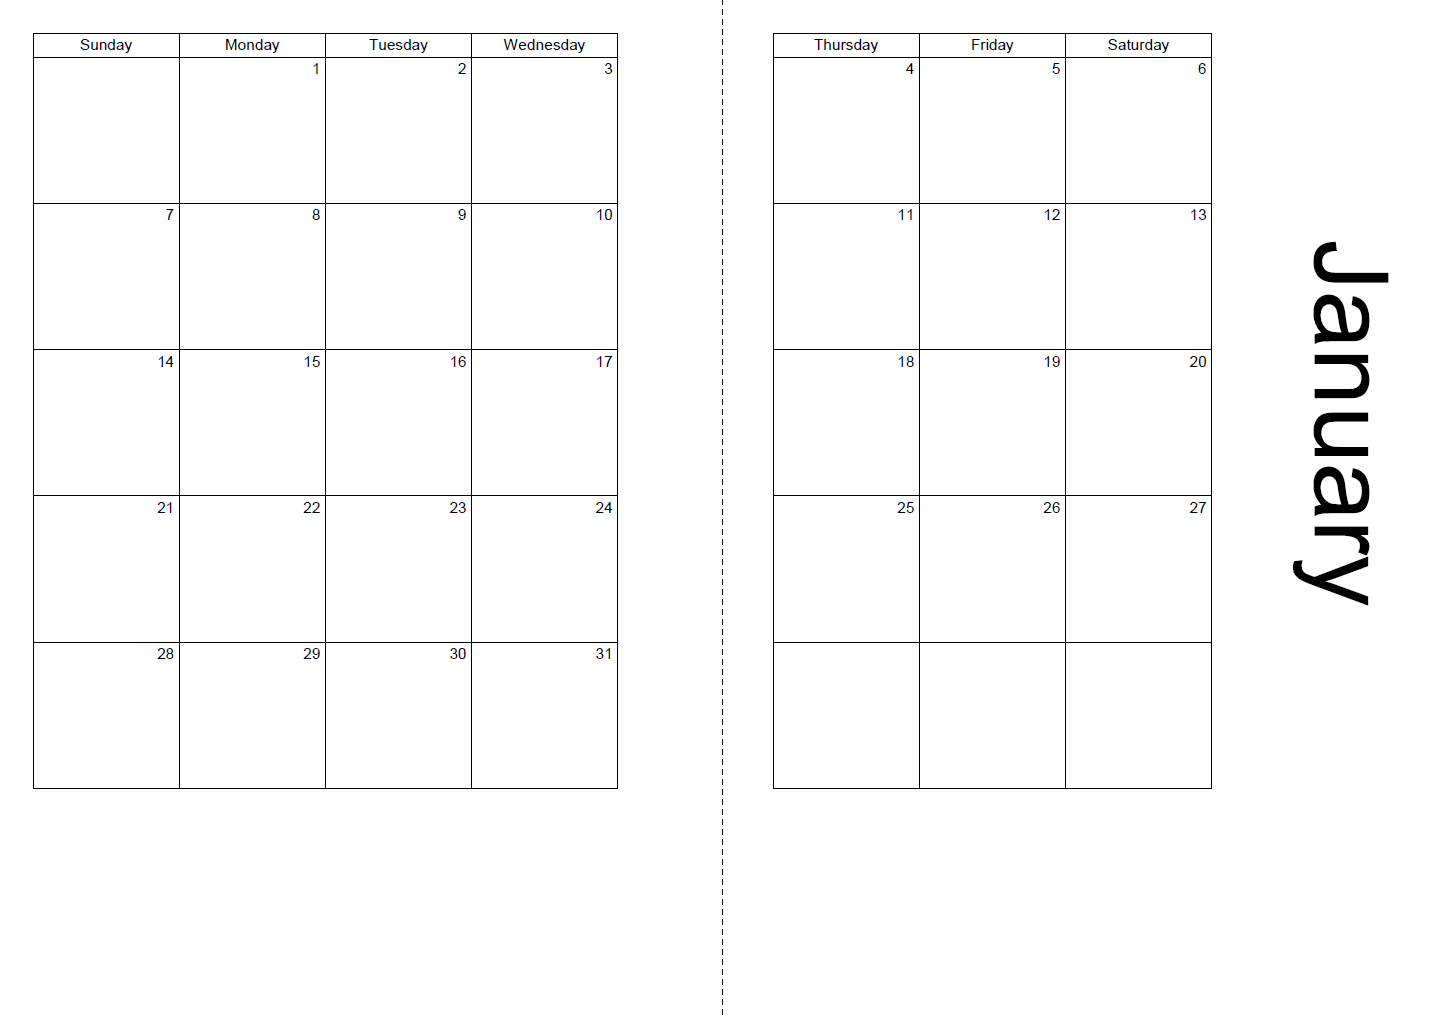
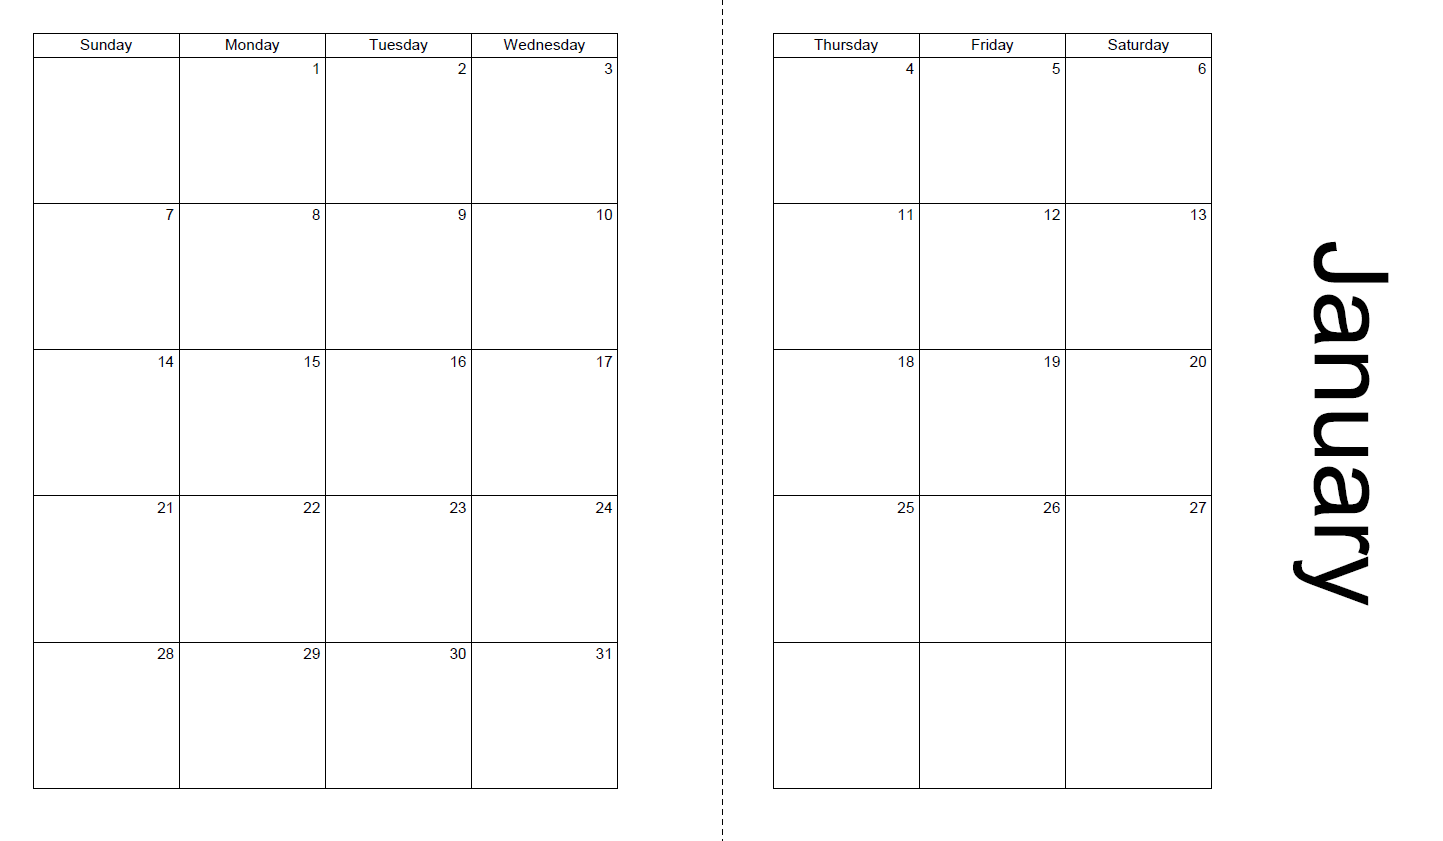
resize planner image and add top padding

diff --git a/templates/projects.html b/templates/projects.html
@@ -12,7 +12,7 @@
             <p>It was found that a large majority of species had the conservation status of Species of Concern. The three largest affected categories were birds, vascular plants, and mammals. Analysis of the conservation status by genus found that the genus Myotis had the most separate species represented with conservation statuses. The genus Myotis refers to the bat, so it can be concluded that national parks are maintaining environments in which bat populations may be able to recover. Overall, national parks are safe havens for at-risk species, and expanding the ecosystems that we see in these parks could help to give these species a better chance at survival.</p>
         </div>
         <div style="padding-right: 20px; height: 525px; background-color:#383F39; color: #E4E6E5;">
-            <img src="../static/img/planner_example.png" style="float: left; margin: 20px; width: 35%">
+            <img src="../static/img/planner_example.png" style="float: left; margin: 20px; width: 35%; padding-top: 30px">
             <h2 style="padding-top: 25px; text-align: center;">Planner Page Generator</h2>
             <hr style="width: 50%; border-color:#E4E6E5;" align="right"/>
             <p>Over the years, I'd grown tired of trying to find a personal planner that met all of my requirements. It seemed as though I'd be able to find one that truly worked for me 1 in every 5 years, but I'd never be able to find the same layout for the next year, and I always felt conflicted about having to throw out my previous year. I tried using digital planners, but truthfully, a pen and paper makes it easier for me to remember my schedule and deadlines.</p>
@@ -20,7 +20,7 @@
             <p>Now, I'm revisiting this project to add more customizability and a GUI to enable me to tweak my layouts whenever I please as my needs change. Follow along with me as I further refine this application to work for a wide audience.</p>
         </div>
         <div style="padding-left: 20px; height: 525px; background-color:#383F39; color: #E4E6E5;">
-            <img src="../static/img/railway.png" style="float: right; margin: 20px; width: 40%">
+            <img src="../static/img/railway.png" style="float: right; margin: 20px; width: 40%; padding-top: 50px;">
             <h2 style="padding-top: 25px; text-align: center;">This Website!</h2>
             <hr style="width: 50%; border-color:#E4E6E5;" align="left"/>
             <p>I created this website using the Flask framework available with Python. I made use of the Jinja2 template that comes with the Flask library to keep the navigation present on each page. I also used some Bootstrap code to format the navigation bar.</p>
